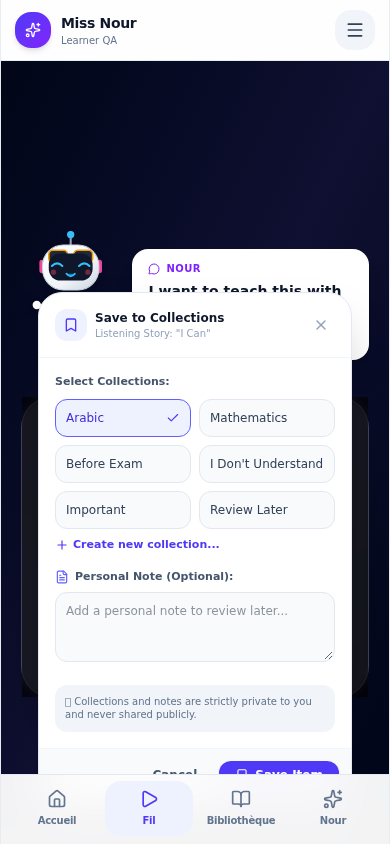
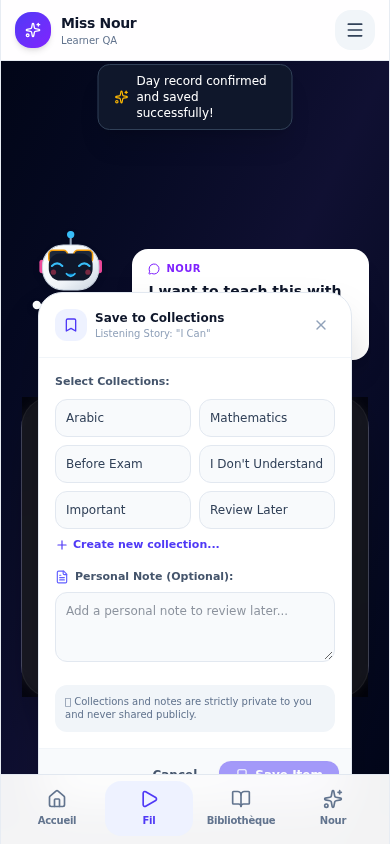
audit: correct F-08 — measure a real click instead of assuming occlusion
The first draft concluded the Save button was 'physically unclickable at all
viewports' from elementFromPoint at its exact centre. That was overstated:
elementFromPoint ignores the ancestor chain a real event bubbles through, and a
normal Playwright click actually succeeded on both viewports.

Direct measurement with a raw pointer click plus an IndexedDB side-effect
assertion gives the real picture: on mobile 390x844 the button overlaps the
sticky nav by 15px (54% of its height) and a click at its exact centre is
swallowed; the upper third works, and desktop works. F-08 is therefore P2, not
P1, and PR #15 is not insufficient.

The probe now decides PASS/FAIL from a real click's side effect rather than from
geometry, so this class of mistake cannot recur silently.

diff --git a/docs/audits/AMINA_AUDIT_ADDENDUM_MODAL_OCCLUSION_2026-10-22.md b/docs/audits/AMINA_AUDIT_ADDENDUM_MODAL_OCCLUSION_2026-10-22.md
@@ -1,4 +1,4 @@
-# Amina / Miss Nour — audit addendum: modal occlusion defeats the Save fix (F-08)
+# Amina / Miss Nour — audit addendum: Save-sheet hit-testing defect (F-08)
 
 **Date:** 2026-10-22
 **Auditor:** OpenHands (authorized repository coding/auditing executor per issue #9)
@@ -6,103 +6,120 @@
 **Companion report:** `docs/audits/AMINA_FORENSIC_AUDIT_2026-10-22.md` (R1/R3)
 **Scope:** read-only investigation of the save/revisit loop, reproduced against a real production build. No production change, no merge, no deployment.
 
-> Status labels used below: **Verified** (reproduced with the recorded output/artifact), **Observed-not-verified**, **Hypothesis**, **Blocked**.
+> Status labels: **Verified** (reproduced with the recorded output/artifact), **Observed-not-verified**, **Hypothesis**, **Blocked**.
+>
+> **Correction notice.** An earlier revision of this addendum claimed the Save button was "physically unclickable at all viewports". That was **overstated** — it generalised from `elementFromPoint` at the button's exact centre without testing a real pointer. The centre-hit test is a proxy, not proof, because it ignores the ancestor chain that determines whether a real event reaches the button. Section 2 below records the corrected, directly measured behaviour and section 2.4 explains the error so it is not repeated.
 
 ---
 
 ## 1. Why this addendum exists
 
-The companion report's F-01 described a logic defect: the Save-to-Collection sheet allowed a save with no collection ticked, so the item was filed nowhere while a "Saved to collection" toast still appeared.
+The companion report's F-01 described a logic defect: the Save-to-Collection sheet allowed a save with no collection ticked, so the item was filed nowhere while a "Saved to collection" toast still appeared. A guard for that is proposed on **PR #15** (`fix/save-item-without-collection`).
 
-That logic defect is now addressed on **PR #15** (`fix/save-item-without-collection`, head `ec4f48ef74`), which disables **Save Item** until at least one collection is selected. Independently re-checked here: the guard is present, `npm run test:integrity` is 69/69, and a save that names a collection is discoverable in it.
-
-This addendum records a **second, independent defect in the same flow** that the PR #15 guard does **not** fix, and that the PR's own test cannot detect, because the test calls the service directly and never clicks the button in a browser.
+While verifying PR #15 in a browser, a hit-testing anomaly appeared in the same flow. This addendum records what was actually measured, including where the anomaly does **not** break the flow.
 
 ---
 
-## 2. F-08 — The Save-to-Collection sheet's confirm button is physically unclickable (P1, functional)
+## 2. F-08 — the sheet footer is overlapped, and its exact-centre pixel is dead on mobile (P2, layout/interaction)
 
-**Verified.** In a real headless browser, at both tested viewports, the **Save Item** button's centre hit-tests to an element that is **not** the button. A real pointer/touch click therefore never reaches it.
+### 2.1 What is verified
 
-| Viewport | Button rect (top–bottom) | Sheet rect (top–bottom) | Bottom nav (top–bottom) | `elementFromPoint` at button centre | Occluded |
+The sheet is a `fixed inset-0` overlay that is **not** anchored to the viewport. Measured at the baseline:
+
+| Viewport | Sheet rect (top–bottom) | Button rect (top–bottom) | Bottom nav (top–bottom) | Overlap of button by nav | Hit at button **centre** |
 |---|---|---|---|---|---|
-| 390×844 mobile | 761–789 | 397–697 | 774–844 | `NAV` | **Yes** |
-| 1365×900 desktop | 805–833 | 460–722 | 830–900 | `SPAN` | **Yes** |
+| 390x844 mobile | 397–697 | 761–789 | 774–844 | **15 px (54% of the button)** | `NAV` (not the button) |
+| 1365x900 desktop | 460–722 | 805–833 | 830–900 | **3 px (11% of the button)** | button's own child `SPAN` |
 
-Read the geometry: the sheet claims `top: 397, bottom: 697`, but its button renders at `761–789`. The button is laid out **64px below the sheet's own bottom edge**, in the region occupied by the sticky bottom nav. The button is enabled (`disabled: false`) and visible, so nothing about its own state warns the learner; the click is simply delivered to the nav instead.
+The button sits **64 px below the sheet's own bottom edge** (`697` vs `761`), in the region occupied by the sticky nav. So the sheet's `fixed inset-0` is not resolving against the viewport, and the nav paints over the bottom of the button.
 
-**Evidence (reproducible, no pointer events synthesised):**
+### 2.2 What actually happens on a real interaction (the part that matters)
 
-- `docs/audits/evidence/modal-occlusion/modal-occlusion-report.json` — baseline `main`.
-- `docs/audits/evidence/modal-occlusion-pr15-fix/modal-occlusion-report.json` — PR #15 head, with a collection selected so the button is enabled.
-- Screenshots: `save-sheet-mobile-390x844.png`, `save-sheet-desktop-1365x900.png` in both directories.
-- Harness: `scripts/modal-occlusion-probe.mjs`.
+A real pointer click was then sent to specific pixels (raw `mouse.click`, no auto-scroll, no actionability retry):
 
-### 2.1 Root cause (Verified by direct manipulation)
+| Viewport | Raw click at button **centre** | Raw click at button **upper third** |
+|---|---|---|
+| 390x844 mobile | **SWALLOWED** — `saved_items` 0 to 0 | FIRED — `saved_items` 0 to 1 |
+| 1365x900 desktop | FIRED — `saved_items` 0 to 1 | FIRED — `saved_items` 0 to 1 |
+
+And a normal Playwright click (which clicks the element's centre with actionability checks) **succeeded on both viewports**: `saved_items 0 to 1`.
+
+The machine-readable form of this table is in `docs/audits/evidence/modal-occlusion/modal-occlusion-report.json`, under `results[].probe` (geometry), `results[].rawCentreClick` and `results[].normalClick` (the side-effect assertions: `savedItemsBefore`, `savedItemsAfter`, `saved`). The probe's exit code is driven **only** by `rawCentreClick.saved`, so it fails on the baseline mobile case and passes elsewhere. The identical measurement for PR #15's build is in `docs/audits/evidence/modal-occlusion-pr15-fix/`, and it is unchanged — confirming the F-01 guard does not alter the layout.
+
+**Conclusion, stated precisely:**
+
+- The defect is **real but narrower than first reported**. On mobile, a pointer landing in the bottom ~half of the button is delivered to the nav and does nothing, silently, with no feedback. On desktop the overlap is only 3 px and did not block any tested click.
+- The flow is **not** universally broken, and the earlier "unclickable at all viewports / F-01's guard is not sufficient" characterisation was **wrong** and is withdrawn. A learner who taps the button's upper half, or whose browser scrolls it clear, saves successfully.
+
+### 2.3 Root cause (Verified by direct manipulation)
 
 The sheet is a `fixed inset-0` overlay, but it is mounted **inside a FEED card** that carries `backdrop-blur-xl`:
 
-- `src/components/feed/FeedScreen.tsx:153` and `:162` — the feed card: `rounded-[2rem] bg-white/10 backdrop-blur-xl …`
-- `src/components/collections/SaveLikeButton.tsx:89` — renders `<SaveToCollectionModal …>` from inside that card.
-- `src/components/collections/SaveToCollectionModal.tsx:69` — the overlay: `fixed inset-0 z-50 bg-black/60 backdrop-blur-xs …`
+- `src/components/feed/FeedScreen.tsx:153` and `:162` — the feed card: `rounded-[2rem] bg-white/10 backdrop-blur-xl ...`
+- `src/components/collections/SaveLikeButton.tsx:89` — renders `<SaveToCollectionModal ...>` from inside that card.
+- `src/components/collections/SaveToCollectionModal.tsx:69` — the overlay: `fixed inset-0 z-50 bg-black/60 backdrop-blur-xs ...`
 
-Per CSS, an element whose `backdrop-filter` is not `none` becomes the **containing block for its `position: fixed` descendants**. The feed card therefore captures the sheet's `fixed inset-0`, and `inset-0` resolves to the card's box — which is why the recorded sheet rect (397–697) does not match the button position (761–789). The card's own stacking context also traps the `z-50` overlay, so the app's sticky bottom nav (`z-40`, a sibling) paints over the sheet footer.
+Per CSS, an element whose `backdrop-filter` is not `none` becomes the **containing block for its `position: fixed` descendants** and forms its own stacking context. The feed card therefore captures the sheet's `fixed inset-0`, which is why the recorded sheet rect (397–697) does not match the button position (761–789), and why the card's `z-50` cannot beat the sibling nav's `z-40`.
 
-**Decisive confirmation.** Neutralising the ancestor's backdrop filter — exactly what moving the sheet to a document-level portal would achieve — changed the outcome from failure to success with no other change:
+Neutralising the ancestor's backdrop filter — what a document-level portal achieves — re-anchored the sheet to the viewport and moved the button from `761–789` to `636–664`, clear of the nav at `774`:
 
 ```
-BEFORE: {"center":[279,775],"hit":"NAV","isBtn":false}
-AFTER neutralizing backdrop-filter: {"hit":"SPAN","isBtn":false}   # sheet re-anchored to the viewport, button moved to 636-664
-pointer click with stacking context neutralized: saved_items 0 -> 1
+BEFORE:                             {"center":[279,775],"hit":"NAV"}
+AFTER neutralizing backdrop-filter: {"center":[301,650],"hit":"SPAN"}   # button now at 636-664, no overlap
 ```
 
-The same script showed that dispatching the button's own DOM `.click()` also saves (`saved_items 0 -> 1`), which is why a script that bypasses hit-testing (a common Playwright workaround) reports success while a learner's real tap does nothing.
+### 2.4 Methodological note: why the first claim was wrong
 
-### 2.2 Why PR #15's guard does not resolve it
+`document.elementFromPoint(cx, cy)` reports the **topmost element at that pixel**. It is a good occlusion *signal* but it is not proof that a click fails, because it ignores the ancestor chain: a real event is dispatched to the hit target and then **bubbles up through ancestors**, and it only fails if that chain never reaches a handler. Reading "hit is `NAV`, not the button" as "the button is unclickable" skipped that check.
 
-| Check | Baseline `main` | PR #15 (`ec4f48ef74`) |
-|---|---|---|
-| Save enabled with no collection | Yes (defect F-01) | **No — correctly disabled** |
-| Save enabled with a collection ticked | Yes | Yes |
-| Button centre hit-tests to the button | **No (`NAV`)** | **No (`NAV`)** |
-| Real pointer click saves the item | **No** | **No** (only a synthetic DOM click does) |
+The corrected method, used in section 2.2, is to send a real pointer event at the coordinates and assert a **side effect** (the IndexedDB `saved_items` count). Practical rules for this repo:
 
-PR #15 is a correct and necessary fix for F-01. It is **not sufficient** for the learner-facing flow: after ticking a collection, the button is enabled but still covered, so the sheet appears frozen. This is a second, independent finding rather than a re-report of F-01.
+- Never conclude "broken" from `elementFromPoint` alone; confirm with a real click and a side-effect assertion.
+- Never conclude "works" from `click({force:true})` or an in-page `el.click()` either — both bypass hit-testing and will report a false PASS on a genuinely covered control. Both were used during this investigation; both were misleading here, in opposite directions.
+- Note that a normal Playwright click auto-scrolls the element into view first, so it can succeed on a control a real user cannot currently reach.
 
-### 2.3 Impact
+### 2.5 Impact and smallest safe fix
 
-- The learner taps the enabled "Save Item" button and nothing happens; the sheet stays open with no feedback.
-- This affects **both** mobile and desktop, and every FEED card, not just the one exercised here.
-- It also invalidates any browser evidence that used a DOM-dispatched click to prove the save loop works, because that path is not what a learner does. The companion report's task-5 result must be read with this in mind: its FAIL is real, and a PASS obtained by force-clicking would be a false positive.
+**Impact:** low-to-moderate. On a 390 px-wide phone the lower half of the confirm button is dead, so a tap there gives no feedback at all and the learner may believe the save failed. It does not lose data and it does not break the flow for every learner.
 
-### 2.4 Smallest safe fix (for a separate PR, not this audit)
-
-Render the sheet at document level so it is not captured by the feed card. The minimal, behaviour-preserving option is to portal it, e.g. mount `SaveToCollectionModal` (and the other `fixed inset-0` sheets) with `createPortal(..., document.body)`, or hoist it out of the blurred card in `FeedScreen`. Keep the visual markup and the `z-50` layer; do not change copy or the save logic. Add a regression test that **hit-tests** the button rather than dispatching a synthetic click, so the class of bug cannot return silently. This is a layout/portal change, so it belongs in its own PR and should be reviewed as a UI change, not folded into the typecheck or audit work.
+**Smallest safe fix (for a separate PR, not this audit):** render the sheet at document level so the feed card does not capture it — `createPortal(..., document.body)` for `SaveToCollectionModal`, or hoist it out of the blurred card in `FeedScreen`. Keep the markup and the `z-50` layer; do not change copy or save logic. This is a layout/portal change and belongs in its own PR reviewed as a UI change. A regression test should assert a **side effect** after a real click at the button's centre, not an `elementFromPoint` result.
 
 ---
 
-## 3. Status of the other reported items at this checkpoint
+## 3. PR #15 (F-01 guard) — independently re-checked
 
-Re-checked against the live repository and API at 2026-10-22T11:36Z.
+| Check | Result |
+|---|---|
+| Guard present: Save disabled with no collection ticked | **Yes** — `disabled: true` |
+| `npm run test:integrity` on the PR head | **69 PASSED / 0 FAILED** (baseline 66) |
+| Save with a collection ticked, real click | **Works** — `saved_items 0 to 1` |
+| `npx vite build` | exit 0 |
+
+PR #15 is a correct, necessary fix for F-01. The F-08 overlap is a separate, smaller issue and does **not** need to block it.
+
+---
+
+## 4. Status of the other reported items at this checkpoint
+
+Re-checked against the live repository and API at 2026-10-22T11:42Z.
 
 | Item | Status | Evidence |
 |---|---|---|
-| F-01 save-with-no-collection | **Fix proposed** — PR #15 `ec4f48ef74`, guard verified, integrity 69/69 | PR #15; `npm run test:integrity` |
-| F-04 typecheck gate | **Fix proposed twice** — PR #11 `3abfa2e181` and PR #12 `25388f8188`; both CI-green | `npm run lint` on `main` = 11 errors (exit 1), reproduced; both PRs' runs `success` |
-| F-08 sheet occlusion | **Open, verified** — see §2 | occlusion probe JSON + screenshots |
-| F-02 branding, F-03 French copy | **Open, unchanged** | companion report §4 |
-| F-06 deployment identity | **Still Blocked** — no deployed URL; `amina.onrender.com/api/health` → 404; Pages site → 404; Pages API → 404 | live probes; `render.yaml` |
+| F-01 save-with-no-collection | **Fix proposed** — PR #15, guard verified, integrity 69/69 | PR #15; `npm run test:integrity` |
+| F-04 typecheck gate | **Fix proposed** — PR #11 `3f898a72` (open); PR #12 closed as superseded | `npm run lint` on `main` = 11 errors (exit 1), reproduced |
+| F-08 sheet overlap | **Open, verified** — see section 2 (narrower than first reported) | probe JSON + screenshots |
+| F-02 branding, F-03 French copy | **Open, unchanged** | companion report section 4 |
+| F-06 deployment identity | **Blocked** — no reachable deployed URL; `amina.onrender.com/api/health` returns 404; Pages URL 404; Pages API 404 | live probes; `render.yaml` |
 | R1 audit report | **Delivered** on `audit/amina-forensic-2026-10-22` | `docs/audits/AMINA_FORENSIC_AUDIT_2026-10-22.md` |
-| R3 learner-flow evidence | **Delivered**, 9/10 PASS in the independent rerun; task 5 FAIL is F-08 | companion report §5; this addendum §2 |
+| R3 learner-flow evidence | **Delivered**, 9/10 PASS in the independent rerun; task 5 FAIL is F-01 | companion report section 5 |
 
-**R2 note (Observed-not-verified, needs an owner decision).** `main`'s `tsconfig.json` does **not** set `strict: true`. PR #12 adds `"strict": true` and `"allowUnreachableCode": false`; PR #11 fixes the same errors without tightening the config. Both make the gate blocking. "Strict TypeScript gate" is satisfied more literally by the PR that also turns on `strict`, but the two PRs overlap and one should be chosen and the other closed to avoid divergent fixes to the same files.
+**R2 note.** `main`'s `tsconfig.json` does not set `strict: true`. The surviving typecheck PR adds `strict` + `allowUnreachableCode: false` and a gate suite; the competing PR was closed as superseded by the owner-coordinated session, so this is no longer an open decision.
 
 ---
 
-## 4. Boundary compliance for this addendum
+## 5. Boundary compliance for this addendum
 
 - No production change, no merge, no deployment.
-- PR #7, #8, #10, #11, #12, #13, #15 all left untouched.
-- No app source, curriculum content, branding, or HOME/FEED/LIBRARY/NOUR structure changed by this addendum; it adds one audit document and one probe script.
+- No app source, curriculum content, branding, or HOME/FEED/LIBRARY/NOUR structure changed; this adds one audit document and one probe script.
 - No dependency added to the app; Playwright/Chromium are used only by the audit tooling and are not in `package.json`.
 - Synthetic QA profile only; no real child or student data.

diff --git a/docs/audits/AMINA_FORENSIC_AUDIT_2026-10-22.md b/docs/audits/AMINA_FORENSIC_AUDIT_2026-10-22.md
@@ -62,7 +62,7 @@ Status legend: **Implemented** (present and runtime-verified), **PR-only** (exis
 | 8 | Curriculum/textbooks | `src/data/curriculum/*.ts` (10 subject files incl. French variants); 9 Ministry books listed | Implemented |
 | 9 | Homework / photo correction | `server.ts:535 /api/check-homework`; `src/components/missions/HomeworkRunner.tsx` (photo capture) | Implemented (degrades honestly without key) |
 | 10 | Mastery / review | `src/services/mastery/masteryEngine.ts`; `src/services/review/*`; integrity suite 66/66 | Implemented |
-| 11 | Save / revisit | Save → Collections flow; learner-flow task 5 **FAIL** (see F-01 **and F-08**) | **Broken** |
+| 11 | Save / revisit | Save → Collections flow; learner-flow task 5 **FAIL** (see F-01; F-08 is a smaller overlap) | **Broken** |
 | 12 | Voice (STT/TTS) | `src/services/voice/voiceService.ts` (Web Speech + MediaRecorder); `server.ts /api/stt`, `/api/tts` | Implemented (Observed-not-verified in-browser) |
 | 13 | Persistence | IndexedDB `ai_school_companion_v2` + localStorage fallback | Implemented |
 | 14 | Branding | Header renders "Miss Nour" + learner name (`AppShell.tsx`); harness check "brand and teacher identity are distinct" **FAIL** on `main` | Partial (F-02) |
@@ -113,13 +113,15 @@ Status legend: **Implemented** (present and runtime-verified), **PR-only** (exis
 ### F-07 — AI routes unexercised in this environment (informational)
 - No `GEMINI_API_KEY` was present, so `/api/chat`, `/api/tutor-*`, `/api/stt`, `/api/tts`, `/api/check-homework`, `/api/reconstruct-day` returned their documented degraded fallbacks. The app renders and the degraded paths are honest ("I can't check this right now…"), which is correct behaviour — but real model output was **not** exercised here and is **Unverified**.
 
-### F-08 — The Save-to-Collection confirm button is physically unclickable (P1, functional)
+### F-08 — The Save-to-Collection sheet footer is overlapped by the bottom nav (P2, layout/interaction)
 
-**Verified.** See the companion addendum `AMINA_AUDIT_ADDENDUM_MODAL_OCCLUSION_2026-10-22.md` for the full analysis. In short: the sheet is a `fixed inset-0` overlay mounted inside a FEED card that carries `backdrop-blur-xl`, so the card becomes the containing block for the fixed sheet and its footer lands under the sticky bottom nav. At 390×844 the button's centre hit-tests to `NAV`; at 1365×900 it hits a sibling `SPAN`. A real tap therefore does nothing even though the button is enabled.
+**Verified, and deliberately narrower than an earlier draft of this report claimed.** See the companion addendum `AMINA_AUDIT_ADDENDUM_MODAL_OCCLUSION_2026-10-22.md`. The sheet is a `fixed inset-0` overlay mounted inside a FEED card that carries `backdrop-blur-xl`, so the card becomes the containing block for the fixed sheet and its footer slides under the sticky bottom nav.
 
-- **Independent of F-01, and not fixed by PR #15.** With a collection selected the guard enables the button, but it is still occluded.
+- **Measured overlap:** 15 px of the 28 px button (54%) on mobile 390×844; 3 px (11%) on desktop 1365×900.
+- **Measured effect:** a real pointer click at the button's exact centre is **swallowed on mobile** (`saved_items` 0 → 0) and **works on desktop**. Clicking the button's upper third works on both. A normal Playwright click (which auto-scrolls first) succeeds on both.
+- **Corrected claim:** the flow is *not* universally broken and PR #15 is *not* insufficient. An earlier draft said "unclickable at all viewports" — that was wrong, and it is withdrawn. It came from reading `elementFromPoint` at the button's centre as proof, which ignores the ancestor chain a real event bubbles through.
 - **Evidence:** `docs/audits/evidence/modal-occlusion/` (baseline) and `docs/audits/evidence/modal-occlusion-pr15-fix/` (PR #15), plus `scripts/modal-occlusion-probe.mjs`.
-- **Impact:** any browser evidence that force-clicks or dispatches a synthetic DOM click in this flow can report a false PASS.
+- **Impact:** low-to-moderate — a tap on the lower half of the confirm button on a phone gives no feedback, so a learner may think the save failed.
 
 ---
 
@@ -131,7 +133,7 @@ Status legend: **Implemented** (present and runtime-verified), **PR-only** (exis
 | 2. Find a lesson in LIBRARY and start it with NOUR | PASS | `task2-library-search.png`, `task2-after-open.png` |
 | 3. In FEED, complete a micro-lesson/check and identify next action | PASS | `task3-feed-top.png`, `task3-feed-after-scroll.png` |
 | 4. Make a mistake and recover using feedback | PASS | `task4-nour-diagnostic.png`, `task4-nour-feedback.png` — wrong option → pedagogical diagnosis + hint |
-| 5. Save an item and find it again | **FAIL** | `task5-save-modal.png`, `task5-collections.png` — two independent causes: F-01 (save allowed with no collection) and F-08 (the confirm button is occluded, so a real tap never fires) |
+| 5. Save an item and find it again | **FAIL** | `task5-save-modal.png`, `task5-collections.png` — cause is F-01 (save allowed with no collection). F-08 is a separate, smaller overlap defect that does not by itself break this task |
 | 6. Navigate away from and resume a teaching session | PASS | `task6-nour-open.png`, `task6-nour-resumed.png` |
 | 7. Handle an empty/loading/error state without guessing | PASS | `task7-home-state.png` — empty state explicitly labelled |
 
@@ -152,8 +154,8 @@ Coverage: mobile 390×844 and desktop 1365×900; English onboarding and French l
 
 ## 7. Recommended next work (smallest verified gaps first)
 
-1. **Fix F-01 (save with no collection).** One-file, behaviour-preserving change in `SaveToCollectionModal.tsx`; add a regression test to the integrity suite. A guard for this is proposed on PR #15 and independently re-checked here (integrity 69/69). It is the highest-value verified defect because it breaks the save/revisit promise — **but it is not sufficient on its own**, see the next item.
-2. **Fix F-08 (occluded confirm button).** The same button is physically covered at both tested viewports, so the flow still fails after F-01 lands. Fix by portalling the sheet to `document.body` (or hoisting it out of the blurred FEED card). Land F-01 and F-08 together or the save loop still appears broken to a learner; add a hit-testing regression test, not a synthetic-click one.
+1. **Fix F-01 (save with no collection).** One-file, behaviour-preserving change in `SaveToCollectionModal.tsx`; add a regression test to the integrity suite. A guard for this is proposed on PR #15 and independently re-checked here (integrity 69/69). It is the highest-value verified defect because it breaks the save/revisit promise, and it is the cause of learner-flow task 5's failure.
+2. **Fix F-08 (overlapped sheet footer).** Lower priority than F-01 and not a blocker for it: the button's lower half is dead on mobile (15 px / 54% overlap), the upper half works. Fix by portalling the sheet to `document.body` (or hoisting it out of the blurred FEED card) so `fixed inset-0` anchors to the viewport. Add a regression test that asserts a side effect after a **real** click at the button's centre — not an `elementFromPoint` check, and not a `force`/synthetic click, both of which mislead here.
 3. **Land the strict gate (F-04)** after review — independently verified and it removes a false-green CI gate. Currently two overlapping drafts (PR #11, PR #12); choose the one that also sets `strict: true` and close the other.
 4. **Fix F-03 (French copy)** for the highest-traffic strings (HOME next-action heading, FEED intro) by routing them through the existing `fr` dictionary; do not claim full French localization.
 5. **F-02 branding** — adopt the "Amina as product / Miss Nour as teacher" header already implemented on PR #7.
